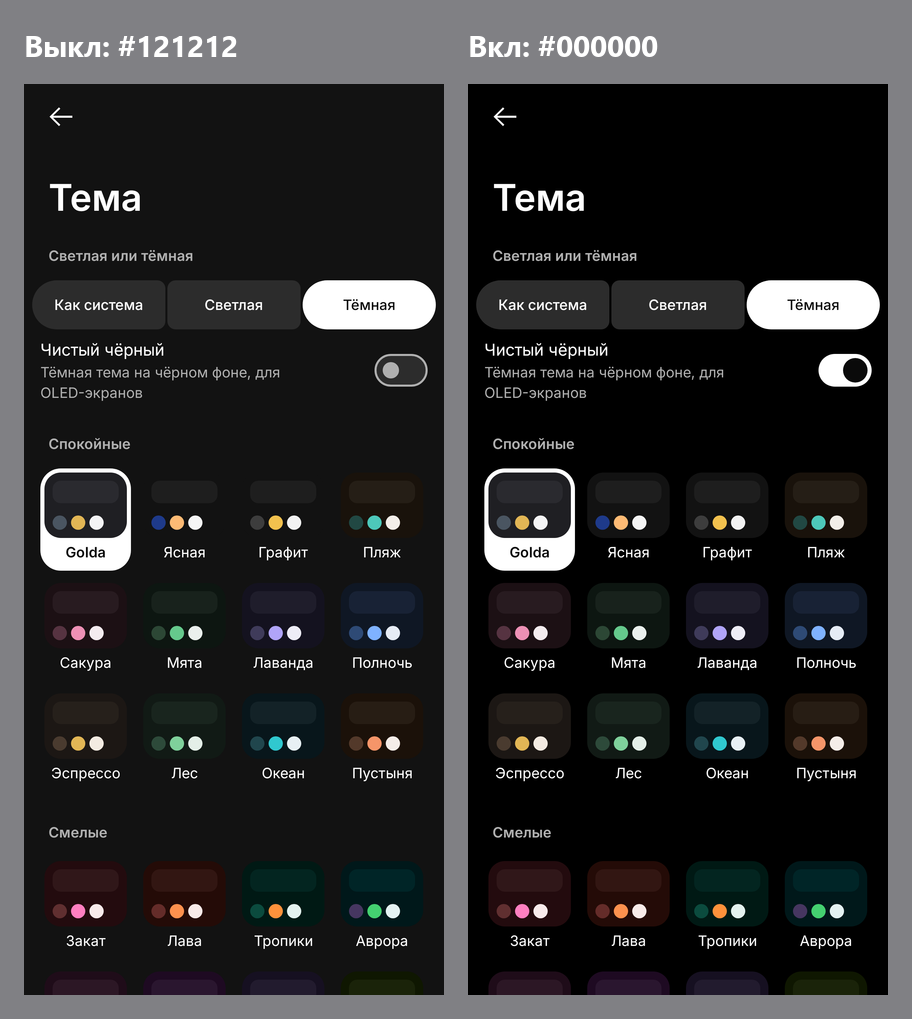
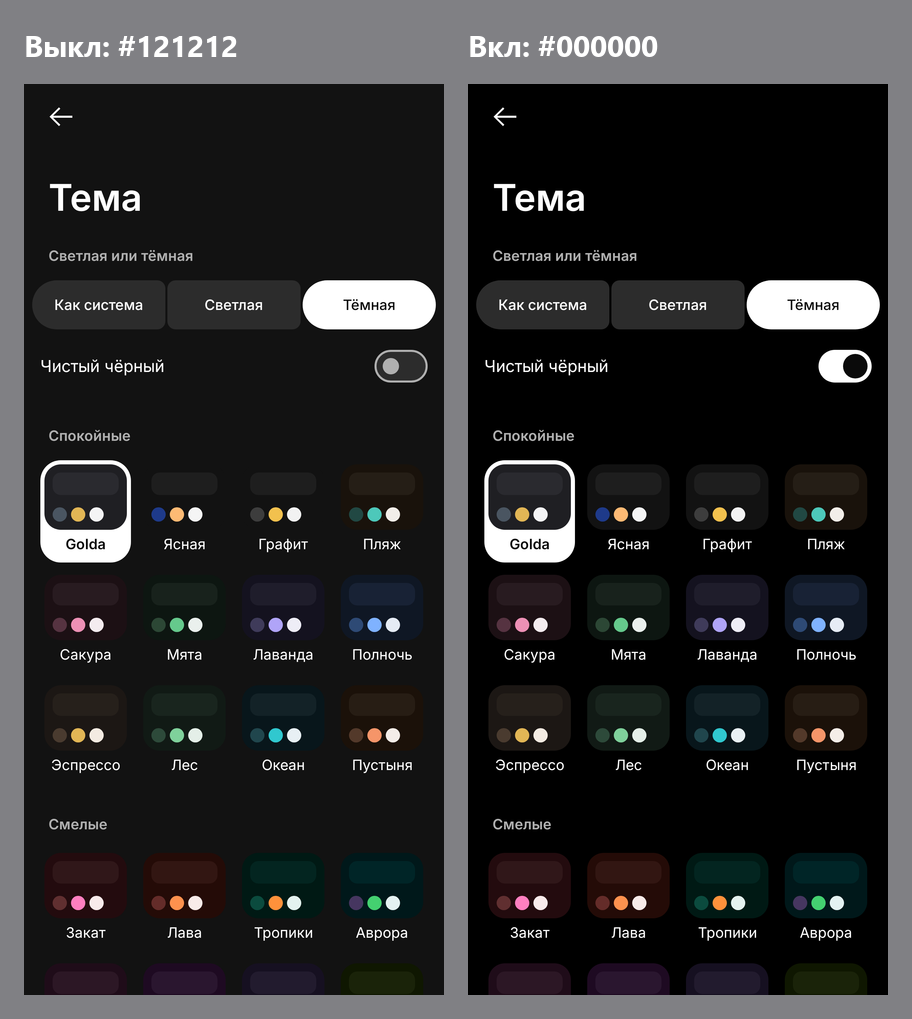
Bold themes: the OLED switch on one line; category colours on spending's circles as a draft
The circles are behind LocalCategoryCircles, off in the app, and shown before and
after in docs/tasks/category-colours/ for the user to choose.

diff --git a/app/src/test/java/sh/aminov/golda/BoldDraftsTest.kt b/app/src/test/java/sh/aminov/golda/BoldDraftsTest.kt
@@ -6,6 +6,7 @@ import androidx.compose.foundation.layout.PaddingValues
 import androidx.compose.foundation.layout.fillMaxSize
 import androidx.compose.foundation.lazy.rememberLazyListState
 import androidx.compose.material3.MaterialTheme
+import androidx.compose.runtime.CompositionLocalProvider
 import androidx.compose.runtime.getValue
 import androidx.compose.runtime.mutableStateOf
 import androidx.compose.runtime.setValue
@@ -23,12 +24,17 @@ import org.junit.runner.RunWith
 import org.robolectric.RobolectricTestRunner
 import org.robolectric.annotation.Config
 import org.robolectric.annotation.GraphicsMode
+import sh.aminov.golda.domain.Analytics
 import sh.aminov.golda.domain.I18n
+import sh.aminov.golda.domain.PeriodKind
 import sh.aminov.golda.ui.AnalyticsScreen
 import sh.aminov.golda.ui.GoldaTheme
 import sh.aminov.golda.ui.HomeScreen
+import sh.aminov.golda.ui.LocalCategoryCircles
 import sh.aminov.golda.ui.ThemeScreen
 import sh.aminov.golda.ui.Tones
+import sh.aminov.golda.ui.inkOn
+import sh.aminov.golda.ui.leitmotifColor
 import java.util.TimeZone
 
 /**
@@ -184,6 +190,76 @@ class BoldDraftsShots {
             oled = on
             compose.waitForIdle()
             compose.onRoot().captureRoboImage("src/test/screenshots/bold/theme_oled_${if (on) "on" else "off"}.png")
+        }
+    }
+}
+
+/**
+ * Spending's circles in the category's mosaic colour, before and after, on a tall Home so the list
+ * shows: docs/tasks/category-colours.md. recordRoborazziDebug with --tests "*CategoryCirclesShots*".
+ */
+@RunWith(RobolectricTestRunner::class)
+@GraphicsMode(GraphicsMode.Mode.NATIVE)
+@Config(qualifiers = "w411dp-h1500dp-xxhdpi")
+class CategoryCirclesShots {
+    @get:Rule val compose = createComposeRule()
+
+    @Before
+    fun fixTheWorld() {
+        TimeZone.setDefault(TimeZone.getTimeZone("UTC"))
+        I18n.russian = true
+    }
+
+    @Test
+    fun beforeAndAfter() {
+        val data = ScreenshotTest().demo()
+        // The mosaic's own colours: each category by its rank in the month's spending, as Аналитика opens.
+        val period = Analytics.period(PeriodKind.MONTH, data.today, null)
+        val report = Analytics.report(data.operations, data.accountById, data.categoryById, period, data.today, data.zone, data.rates)
+        fun colours(t: Tones) = report.categories.withIndex().associate { (rank, spend) ->
+            val key = spend.categoryId?.let { data.categoryById[it]?.key }
+            key to leitmotifColor(if (key == null) null else rank, t)
+        }
+        var tones by mutableStateOf(BoldDrafts.all[0].light)
+        var on by mutableStateOf(false)
+        compose.setContent {
+            GoldaTheme(tones) {
+                CompositionLocalProvider(LocalCategoryCircles provides if (on) colours(tones) else null) {
+                    Box(Modifier.fillMaxSize().background(MaterialTheme.colorScheme.background)) {
+                        HomeScreen(data, PaddingValues(), rememberLazyListState(), {}, {}, onEdit = {})
+                    }
+                }
+            }
+        }
+        BoldDrafts.all.filter { it.key in CIRCLE_KEYS }.forEach { d ->
+            listOf(d.light, d.dark).forEach { t ->
+                listOf(false, true).forEach { after ->
+                    tones = t
+                    on = after
+                    compose.waitForIdle()
+                    val name = "${d.key}_${if (t.dark) "dark" else "light"}_${if (after) "after" else "before"}"
+                    compose.onRoot().captureRoboImage("src/test/screenshots/bold/circles_$name.png")
+                }
+            }
+        }
+    }
+
+    companion object {
+        val CIRCLE_KEYS = listOf("marathon", "ultramarine", "plate")
+    }
+}
+
+class CategoryCirclesContrastTest {
+    /** An icon on its category's colour stands out 3:1, WCAG's bar for a mark that is not text. */
+    @Test
+    fun theIconReadsOnItsColour() {
+        BoldDrafts.all.flatMap { listOf(it.light, it.dark) }.forEach { t ->
+            (0 until 12).forEach { rank ->
+                val fill = leitmotifColor(rank, t)
+                val ink = inkOn(fill)
+                val (hi, lo) = listOf(fill.luminance(), ink.luminance()).sortedDescending()
+                assertTrue("rank $rank on ${t.plate}", (hi + 0.05) / (lo + 0.05) >= 3.0)
+            }
         }
     }
 }

diff --git a/app/src/main/java/sh/aminov/golda/ui/Kit.kt b/app/src/main/java/sh/aminov/golda/ui/Kit.kt
@@ -398,8 +398,20 @@ fun IconCircle(modifier: Modifier = Modifier, color: Color = circleColor(), cont
 
 /** An icon in its neutral circle: a category, a transfer. */
 @Composable
-fun GlyphCircle(@DrawableRes icon: Int, modifier: Modifier = Modifier) {
-    IconCircle(modifier) { Icon(painterResource(icon), null, Modifier.size(24.dp), tint = MaterialTheme.colorScheme.onSurfaceVariant) }
+fun GlyphCircle(@DrawableRes icon: Int, modifier: Modifier = Modifier, color: Color = circleColor(), ink: Color = MaterialTheme.colorScheme.onSurfaceVariant) {
+    IconCircle(modifier, color) { Icon(painterResource(icon), null, Modifier.size(24.dp), tint = ink) }
+}
+
+/**
+ * A draft, not on yet (docs/tasks/category-colours.md): each spending's circle in its category's
+ * mosaic colour, by category key. Null: the neutral circles.
+ */
+val LocalCategoryCircles = staticCompositionLocalOf<Map<String?, Color>?> { null }
+
+/** Black or white, whichever stands out more on [fill]. */
+fun inkOn(fill: Color): Color {
+    val l = fill.luminance()
+    return if ((l + 0.05f) / 0.05f >= 1.05f / (l + 0.05f)) Color(0xFF0A0A0A) else Color.White
 }
 
 /** The tonal text field: corner 16, surfaceContainerHighest, no underline. */

diff --git a/app/src/main/java/sh/aminov/golda/ui/ThemeScreen.kt b/app/src/main/java/sh/aminov/golda/ui/ThemeScreen.kt
@@ -140,13 +140,7 @@ fun ThemeScreen(
                 Modifier.fillMaxWidth().heightIn(min = 56.dp).toggleable(oled, role = Role.Switch) { onOled(it) },
                 verticalAlignment = Alignment.CenterVertically,
             ) {
-                Column(Modifier.weight(1f)) {
-                    Text(tr("Чистый чёрный", "Pure black"), style = MaterialTheme.typography.bodyLarge)
-                    Text(
-                        tr("Тёмная тема на чёрном фоне, для OLED-экранов", "The dark theme on black, for OLED screens"),
-                        style = MaterialTheme.typography.bodyMedium, color = MaterialTheme.colorScheme.onSurfaceVariant,
-                    )
-                }
+                Text(tr("Чистый чёрный", "Pure black"), Modifier.weight(1f), style = MaterialTheme.typography.bodyLarge)
                 CheckSwitch(oled) { onOled(it) }
             }
             // The ready themes in a grid, four to a row: twenty-odd do not fit a row to scroll.

diff --git a/app/src/main/java/sh/aminov/golda/ui/Components.kt b/app/src/main/java/sh/aminov/golda/ui/Components.kt
@@ -280,7 +280,11 @@ fun OperationRow(data: AppData, full: OperationFull, accountId: Long?, onClick: 
     GroupRow(
         index, count, modifier,
         onClick = { onClick(full) },
-        leading = { GlyphCircle(operationIcon(category, op.type)) },
+        leading = {
+            val fill = LocalCategoryCircles.current?.takeIf { op.type == OpType.EXPENSE }?.get(category?.key)
+            if (fill != null) GlyphCircle(operationIcon(category, op.type), color = fill, ink = inkOn(fill))
+            else GlyphCircle(operationIcon(category, op.type))
+        },
         supporting = supporting?.let { text -> { Text(text, maxLines = 1, overflow = TextOverflow.Ellipsis) } },
         trailing = { AmountColumn(main, secondary, approximate, color) },
     ) { Text(title, style = MaterialTheme.typography.bodyLarge, maxLines = 1, overflow = TextOverflow.Ellipsis) }

diff --git a/docs/tasks/category-colours/grid.py b/docs/tasks/category-colours/grid.py
@@ -1,0 +1,23 @@
+import sys
+from PIL import Image, ImageDraw, ImageFont
+# python docs/tasks/category-colours/grid.py app/src/test/screenshots/bold docs/tasks/category-colours
+src, out = sys.argv[1], sys.argv[2]
+themes = [('marathon', 'Марафон'), ('ultramarine', 'Ультрамарин'), ('plate', 'Плашка')]
+font = ImageFont.truetype('C:/Windows/Fonts/segoeuib.ttf', 30)
+small = ImageFont.truetype('C:/Windows/Fonts/segoeui.ttf', 24)
+W, gap, group, head = 300, 12, 40, 90
+for half in ('light', 'dark'):
+    # Each theme: Home before, Home after, and Аналитика for the mosaic's colours to compare with.
+    h_home = round(W * Image.open(f'{src}/circles_marathon_{half}_before.png').height / Image.open(f'{src}/circles_marathon_{half}_before.png').width)
+    gw = 3 * W + 2 * gap
+    grid = Image.new('RGB', (3 * gw + 4 * group, h_home + head + 2 * group), (128, 128, 132))
+    d = ImageDraw.Draw(grid)
+    for i, (k, label) in enumerate(themes):
+        x = group + i * (gw + group); y = group
+        d.text((x, y), label, fill=(255, 255, 255), font=font)
+        shots = [(f'circles_{k}_{half}_before', 'сейчас'), (f'circles_{k}_{half}_after', 'цвет категории'), (f'{k}_{half}_insights', 'аналитика')]
+        for j, (name, cap) in enumerate(shots):
+            d.text((x + j * (W + gap), y + 44), cap, fill=(240, 240, 240), font=small)
+            im = Image.open(f'{src}/{name}.png').convert('RGB')
+            grid.paste(im.resize((W, round(W * im.height / im.width)), Image.LANCZOS), (x + j * (W + gap), y + head))
+    grid.save(f'{out}/circles-{half}.png', optimize=True)

diff --git a/docs/tasks/category-colours.md b/docs/tasks/category-colours.md
@@ -1,0 +1,46 @@
+# Цвет категории у трат в списках
+Статус: ждёт пользователя · Обновлено: 2026-11-04
+
+## Цель
+Кружок иконки у траты в списках (лента, счёт, траты категории) — в цвете её категории, том же, что в мозаике и
+столбиках аналитики. Переводы, доходы и сверки — нейтральные.
+
+## Решения пользователя
+- 2026-11-04, к темам v3: цвета у трат «забыли сделать»: «перевод одного цвета, аренда — домик иконкой, у него
+  заливка белая — можно цвет всему дать». Сначала кадры до/после, пользователь выберет. Приложение «аккуратное»:
+  вопрос, не ломает ли стиль и нужен ли этому элементу контраст.
+
+## Варианты
+Кадры (главная до/после и аналитика рядом, для сравнения цветов): [circles-light.png](category-colours/circles-light.png),
+[circles-dark.png](category-colours/circles-dark.png) — Марафон, Ультрамарин, Плашка (v3 из
+[bold-themes.md](bold-themes.md)).
+
+## Сделано
+- Черновик за флагом, в приложении выключен: `LocalCategoryCircles` (Kit.kt) — карта «ключ категории → цвет»; когда
+  она задана, `OperationRow` (Components.kt) красит кружок траты в цвет категории, иконку — чёрной или белой, что
+  контрастнее (`inkOn`). Цвета — как у мозаики: `leitmotifColor` по месту категории в тратах месяца.
+- `CategoryCirclesShots` (BoldDraftsTest.kt) — кадры; `CategoryCirclesContrastTest` — иконка на цвете 3:1 (WCAG для
+  значка) во всех черновых темах. Сетка: `python docs/tasks/category-colours/grid.py app/src/test/screenshots/bold docs/tasks/category-colours`.
+
+## Осталось
+- [ ] Пользователь решает: делать или нет, во всех темах или только в смелых.
+- [ ] Если да: откуда брать цвет вне аналитики (см. вопросы), включить в `OperationRow` для всех списков, убрать флаг,
+  README/SPEC, скриншоты.
+
+## Вопросы
+- **Делать ли?** Цвет на каждой трате оживляет ленту и связывает её с мозаикой, но добавляет пятен, а пользователь
+  просил воздуха. Варианты: цветной кружок (как на кадрах); цветная только иконка на нейтральном кружке (тише);
+  оставить нейтральным. Рекомендация: цветной кружок, но спокойнее — та же светлота, что у мозаики, иконка тёмная; в
+  смелых и спокойных темах одинаково.
+- **Цвет категории меняется от месяца к месяцу.** Сейчас в мозаике цвет — по месту категории в тратах периода
+  (самая большая — цвет темы). В ленте это значит: Еда в октябре синяя, в ноябре может стать рыжей. Варианты:
+  в ленте — по месту в текущем месяце (как на кадрах); за каждой категорией закрепить свой цвет и в мозаике тоже
+  (`categoryColor` по ключу уже есть). Рекомендация: закрепить — цвет «Еды» узнаётся всегда.
+- **Контраст.** Иконке нужен 3:1 к своему кружку (держится тестом); кружку к карточке — нет, это не единственный
+  носитель смысла (подпись рядом).
+
+## Подводные камни
+- Цвета мозаики считает `AnalyticsScreen` в `remember`, отдельно от лент; при включении — одна функция на оба места.
+
+## Готово, когда
+Пользователь выбрал вариант; кадры на dev в двух темах, тесты зелёные.

diff --git a/docs/tasks/bold-themes.md b/docs/tasks/bold-themes.md
@@ -22,6 +22,9 @@
   - «Не хватает воздуха… мельтешит, много мелкого на экране, хочется более разряженный интерфейс» — яркая только
     главная плашка, списки нейтральные, меньше цветных пятен.
   - Главный экран переделывается отдельно: его вёрстку не трогать, только цвета.
+- 2026-11-04, отзыв на v3: «прикольные, есть акцентный главный блок, он выделяется». Переключатель OLED — без
+  подсказки под ним: «зачем мне эта подсказка? Мы опять подсказки делаем, я про это много раз говорил» — одна строка
+  «Чистый чёрный» с переключателем. Цвет категории у трат — отдельная задача: [category-colours.md](category-colours.md).
 
 ## Варианты v3 (текущие)
 Страница белая днём, почти чёрная `#121212` ночью; списки нейтральные (`#F3F3F3` / `#1E1E1E`); цвет — только на
@@ -55,7 +58,7 @@
   - `Tones.pace` — полоса темпа, пока денег хватает; по умолчанию — лейтмотив, как раньше.
   - OLED: `Settings.oled` (`SettingsStore`, ключ `oled`, по умолчанию выкл), `tonesFor(key, dark, oled)` кладёт
     тёмную половину на `#000000` (`Tones.onPage`), переключатель «Чистый чёрный» на странице «Тема» под «Светлая или
-    тёмная».
+    тёмная», одной строкой, без подсказки.
 - Тесты: `BoldDraftsContrastTest` — день, ночь, OLED: текст 7:1 на странице и списках, на плашке 7:1 и 4.5:1,
   полоса темпа против плашки 3:1, выбранное/действие 4.5:1. `ThemeGenTest` — то же для плашки пресетов и OLED.
 - Сетки пересобрать: `recordRoborazziDebug --tests '*BoldDrafts*'`, затем
@@ -76,7 +79,8 @@
   сильный, это и просили.
 - **Дерево трат и столбики — на нейтральной карточке, разными цветами.** Ярче (как сейчас) или спокойнее, чтобы
   меньше мельтешило? Рекомендация: как сейчас, плашка одна — пятна категорий читаются как данные.
-- **OLED: подпись** «Чистый чёрный · Тёмная тема на чёрном фоне, для OLED-экранов» — так? Рекомендация: да.
+- **OLED: название строки** — «Чистый чёрный» (сейчас) или «OLED»? Рекомендация: «Чистый чёрный» — понятно без знания
+  слова OLED.
 
 ## Подводные камни
 - `isDark()` (Kit.kt) решает по яркости страницы `< 0.5` — белая/чёрная страница v3 тут безопасна.
